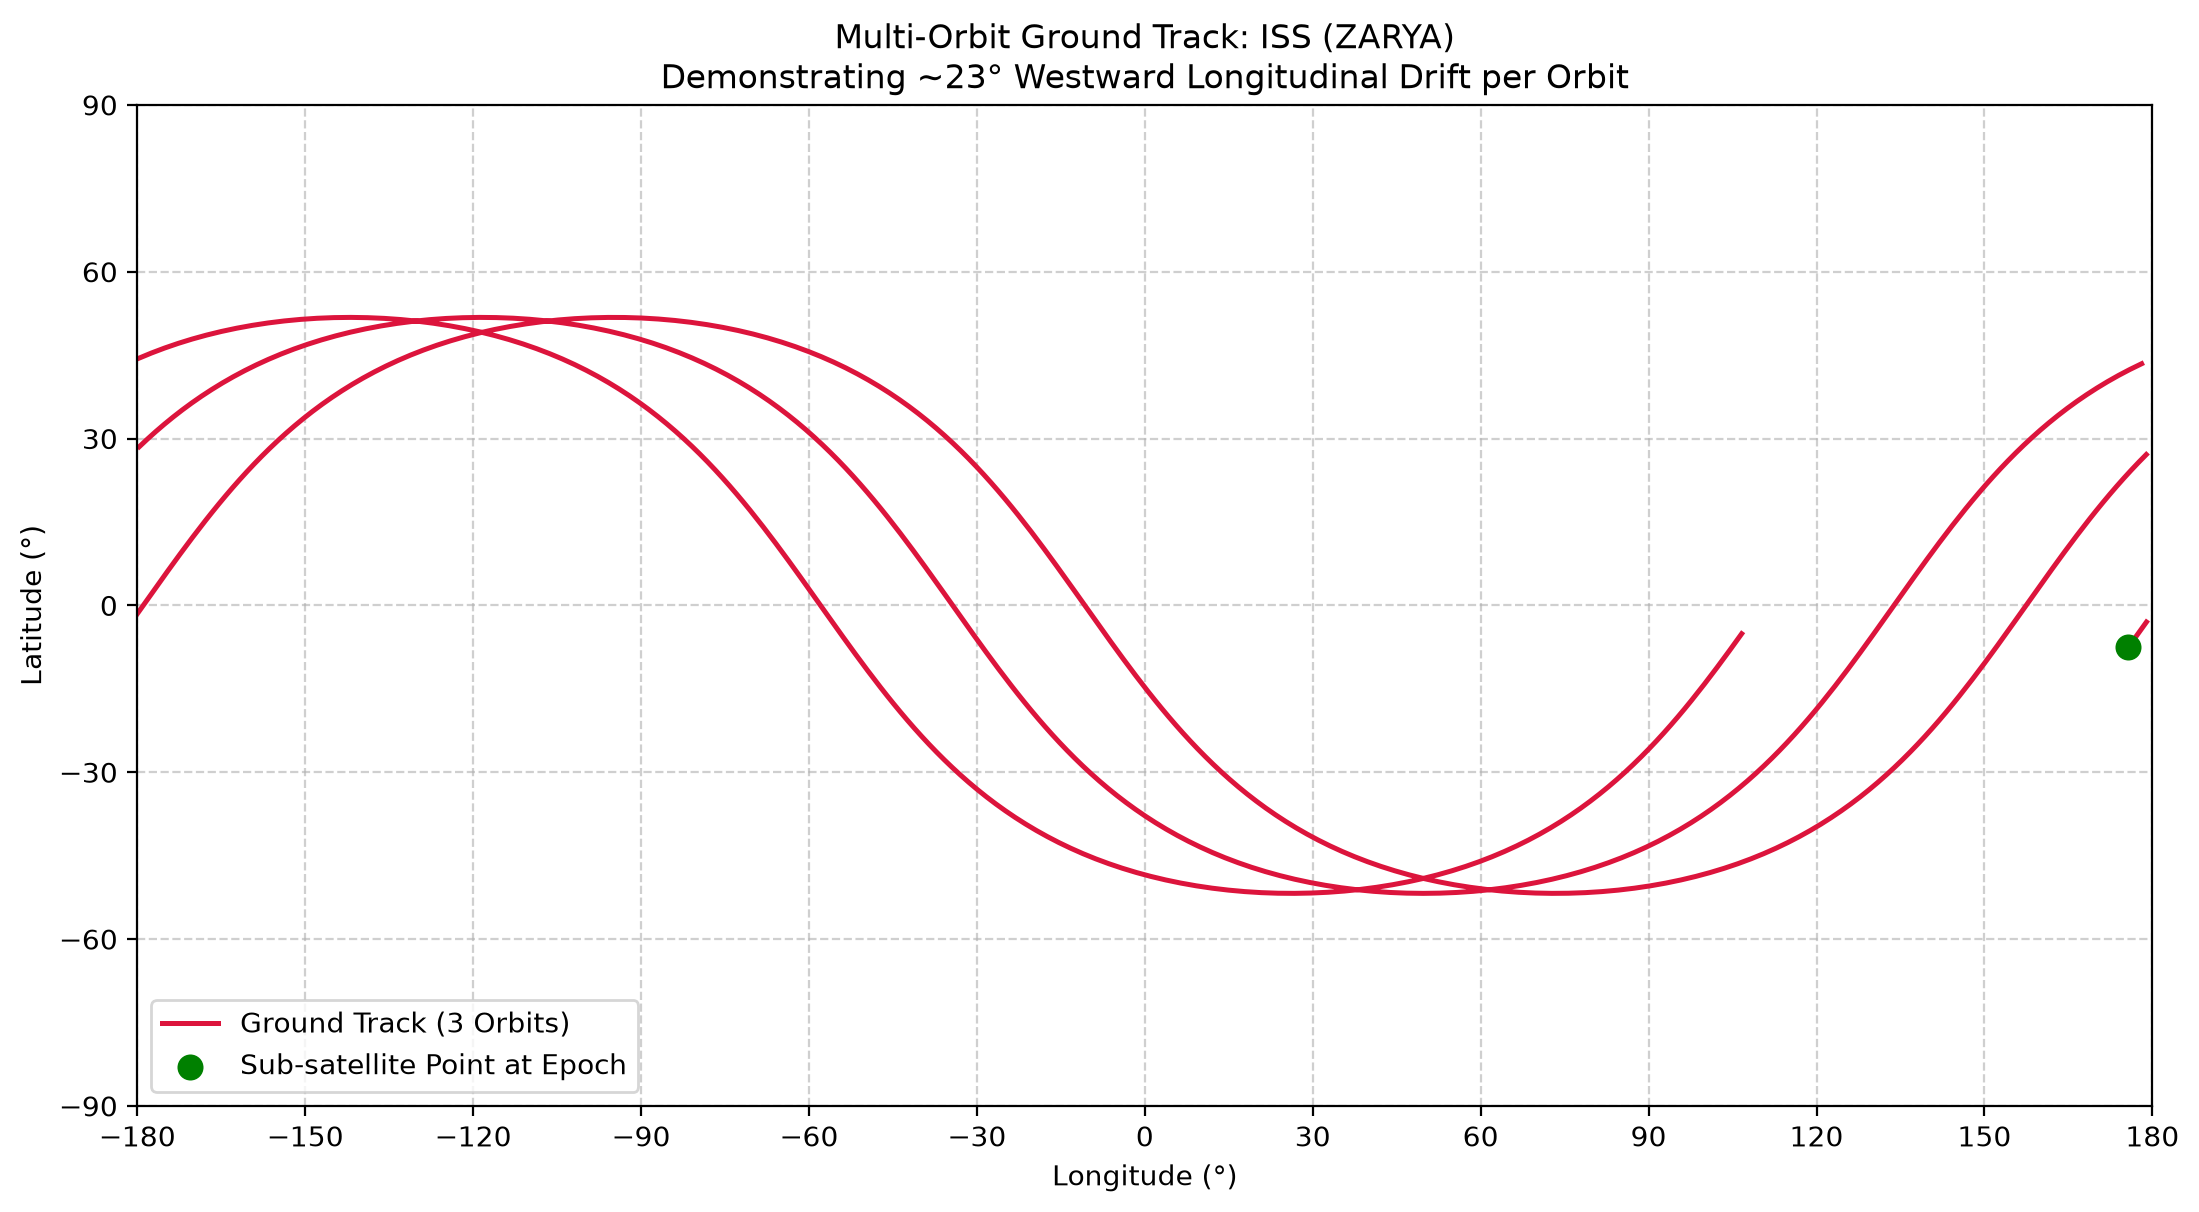
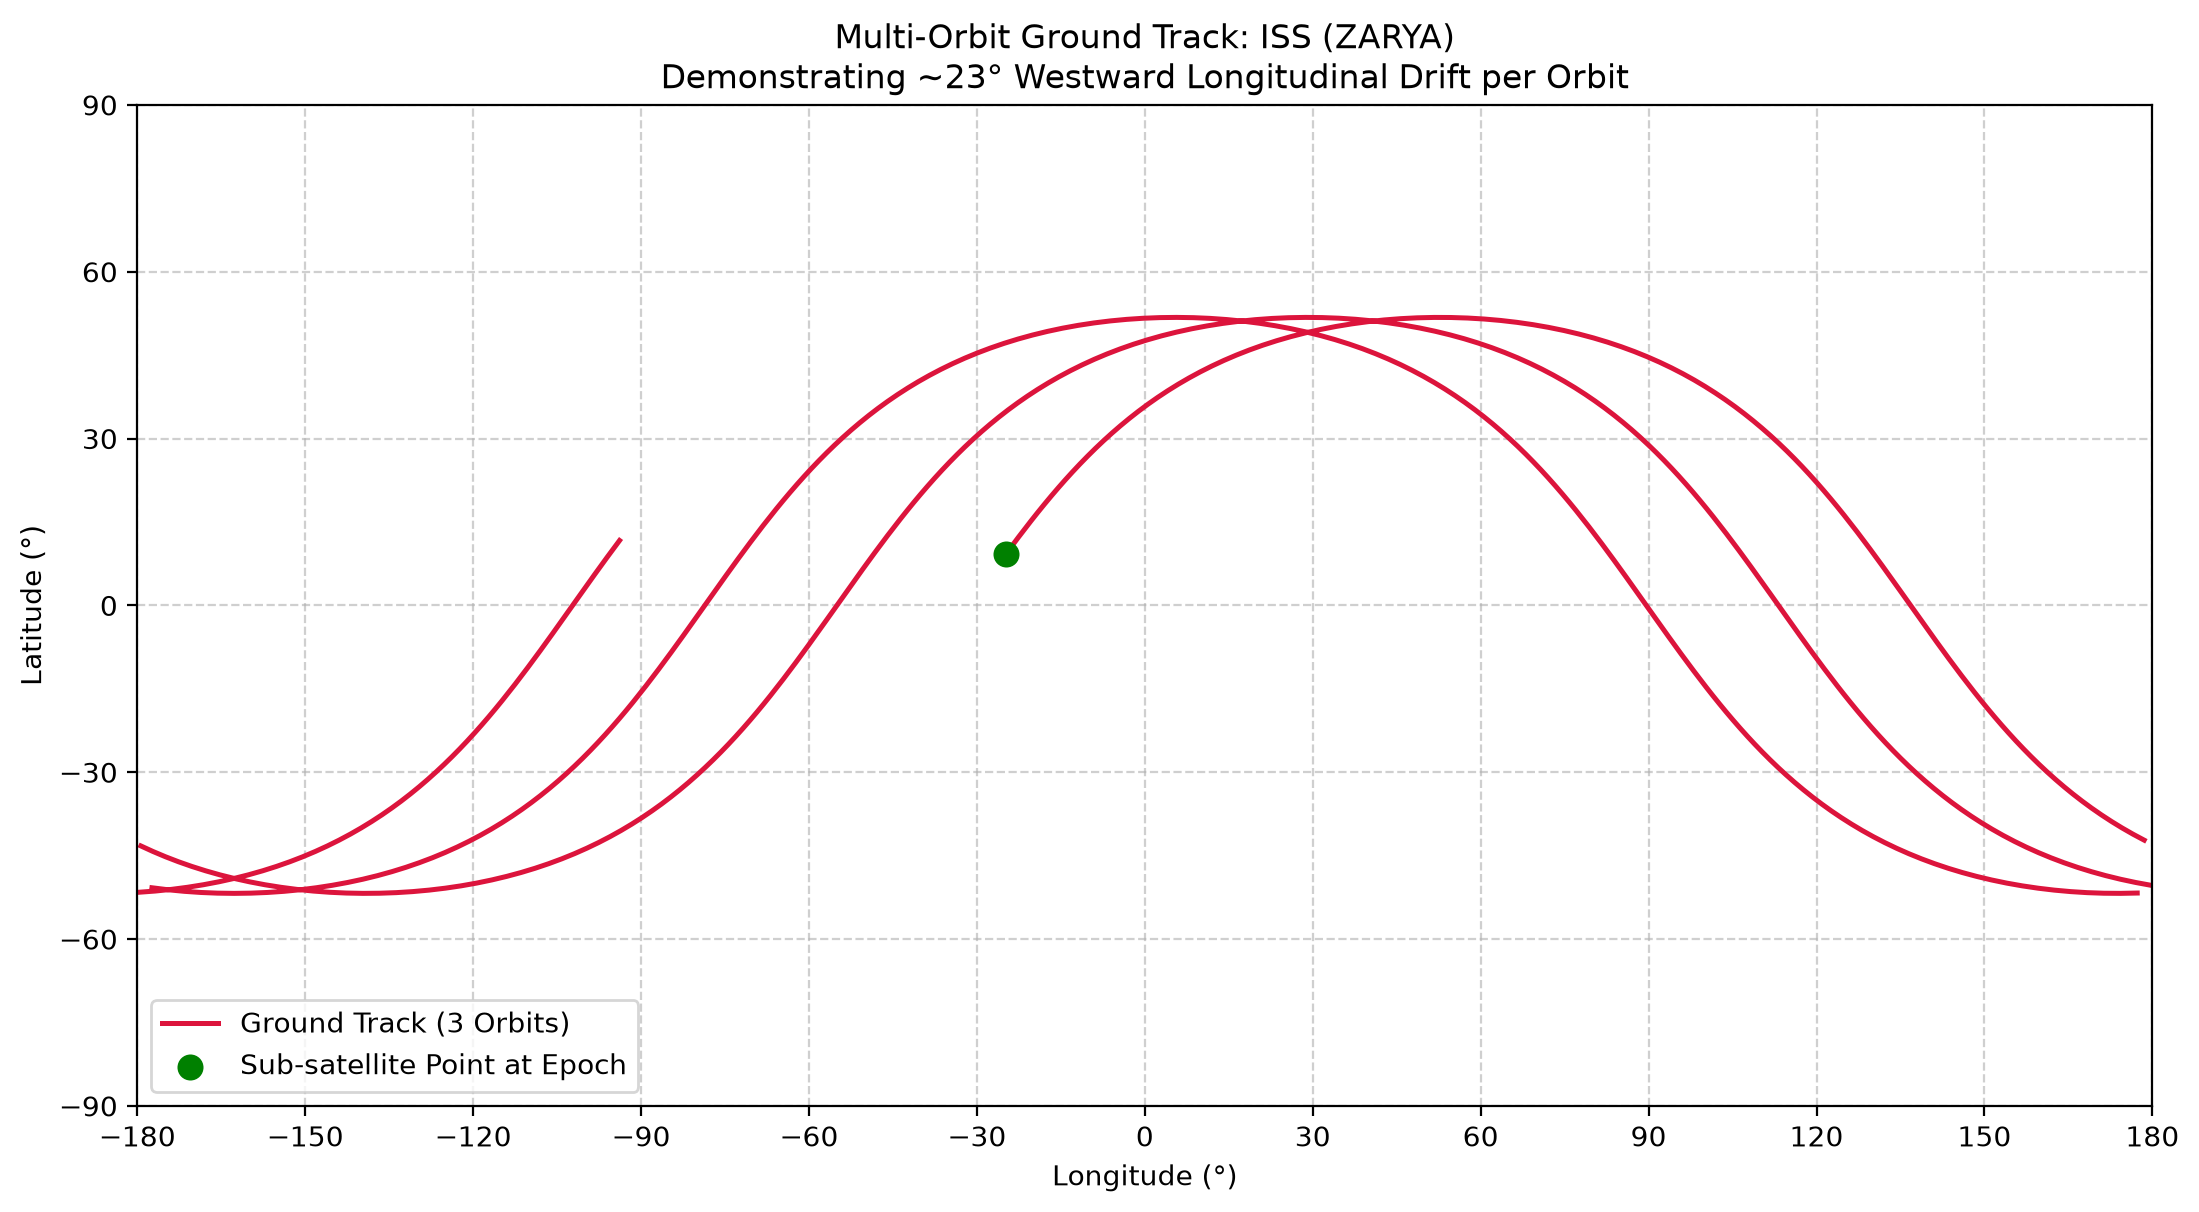
fix: prevent stale or invalid TLE data by adding content validation and a 24h cache expiry

diff --git a/predict_passes.py b/predict_passes.py
@@ -3,13 +3,19 @@
 import os
 from skyfield.api import load, EarthSatellite
 from src.coverage import get_passes_over_location
-from fetch_tle import fetch_and_cache_tle  # Reusing your ingestion module!
+from fetch_tle import fetch_and_cache_tle  # Reusing the ingestion module!
+import time
 
 DATA_FILE = "data/iss.txt"
+MAX_TLE_AGE_SECONDS = 24 * 3600  # TLE accuracy degrades within days; refreshing it at least daily
 
-# SMART FALLBACK: If the file doesn't exist, fetch it once automatically!
-if not os.path.exists(DATA_FILE):
-    print("No cached TLE found. Downloading from CelesTrak...")
+# SMART FALLBACK: If the file doesn't exist/or is older than 24 hours, fetch it once automatically!
+needs_fetch = (
+    not os.path.exists(DATA_FILE)
+    or (time.time() - os.path.getmtime(DATA_FILE)) > MAX_TLE_AGE_SECONDS
+)
+if needs_fetch:
+    print("No cached TLE found (or it's stale). Downloading from CelesTrak...")
     fetch_and_cache_tle()
 
 # Now read the clean local cache
@@ -17,7 +23,7 @@ with open(DATA_FILE, "r", encoding="utf-8") as f:
     lines = [line.strip() for line in f if line.strip()]
 
 name, line1, line2 = lines[0], lines[1], lines[2]
-print(f"Satellite: {name}")
+print(f"\nSatellite: {name}")
 
 # Creating satellite object
 ts = load.timescale()

diff --git a/fetch_tle.py b/fetch_tle.py
@@ -1,4 +1,3 @@
-# fetch_tle.py
 import os
 import requests
 
@@ -17,6 +16,16 @@ def fetch_and_cache_tle(url=URL, save_path=FILE_PATH):
 
         # Clean lines: strip whitespace and completely remove empty blank lines
         clean_lines = [line.strip() for line in response.text.splitlines() if line.strip()]
+
+        # A real TLE is name + 2 lines, with line 1 starting "1 " and line 2
+        # starting "2 ". This catches CelesTrak returning an error page, an
+        # empty body, or a rate-limit notice with a 200 status.
+        if len(clean_lines) < 3 or not clean_lines[1].startswith("1 ") or not clean_lines[2].startswith("2 "):
+            raise ValueError(
+                f"Response doesn't look like a valid TLE (got {len(clean_lines)} lines). "
+                f"Raw response started with: {response.text[:120]!r}"
+            )
+
         clean_text = "\n".join(clean_lines)
         
         os.makedirs(os.path.dirname(save_path), exist_ok=True)

diff --git a/plot_ground_track.py b/plot_ground_track.py
@@ -5,12 +5,18 @@ import matplotlib.pyplot as plt
 from skyfield.api import load, EarthSatellite
 from src.coverage import compute_ground_track
 from fetch_tle import fetch_and_cache_tle  # Reusing your ingestion module!
+import time
 
 DATA_FILE = "data/iss.txt"
+MAX_TLE_AGE_SECONDS = 24 * 3600  # TLE accuracy degrades within days; refreshing it at least daily
 
-# SMART FALLBACK: If the file doesn't exist, fetch it once automatically!
-if not os.path.exists(DATA_FILE):
-    print("No cached TLE found. Downloading from CelesTrak...")
+# SMART FALLBACK: If the file doesn't exist/or is older than 24 hours, fetch it once automatically!
+needs_fetch = (
+    not os.path.exists(DATA_FILE)
+    or (time.time() - os.path.getmtime(DATA_FILE)) > MAX_TLE_AGE_SECONDS
+)
+if needs_fetch:
+    print("No cached TLE found (or it's stale). Downloading from CelesTrak...")
     fetch_and_cache_tle()
 
 # Now read the clean local cache

diff --git a/validate_propagation.py b/validate_propagation.py
@@ -1,10 +1,20 @@
 import os
 from skyfield.api import load, EarthSatellite
 from src.propagate import propagate
+from fetch_tle import fetch_and_cache_tle
+import time
 
 DATA_FILE = "data/iss.txt"
-if not os.path.exists(DATA_FILE):
-    raise FileNotFoundError("Run fetch_tle.py first to cache satellite orbital elements.")
+MAX_TLE_AGE_SECONDS = 24 * 3600  # TLE accuracy degrades within days; refreshing it at least daily
+
+# SMART FALLBACK: If the file doesn't exist/or is older than 24 hours, fetch it once automatically!
+needs_fetch = (
+    not os.path.exists(DATA_FILE)
+    or (time.time() - os.path.getmtime(DATA_FILE)) > MAX_TLE_AGE_SECONDS
+)
+if needs_fetch:
+    print("No cached TLE found (or it's stale). Downloading from CelesTrak...")
+    fetch_and_cache_tle()
 
 with open(DATA_FILE, "r", encoding="utf-8") as f:
     lines = [line.strip() for line in f if line.strip()]

diff --git a/validate_deltav.py b/validate_deltav.py
@@ -31,7 +31,7 @@ for name, alt1, alt2, m_type, nominal, min_exp, max_exp in MISSIONS:
     
     # Save verification status for the summary block
     is_passed = min_exp <= total_m_s <= max_exp
-    results.append((name, traj_str, total_m_s, is_passed, nominal))  # <--- Clean and explicit!
+    results.append((name, traj_str, total_m_s, is_passed, nominal))
 
 print("-" * 110)
 
